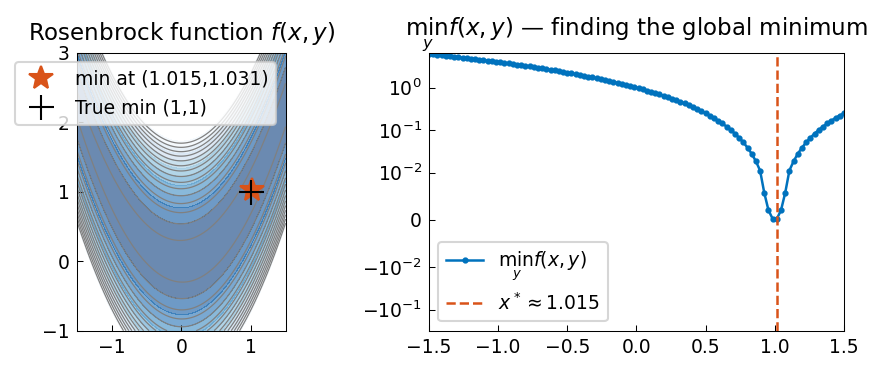
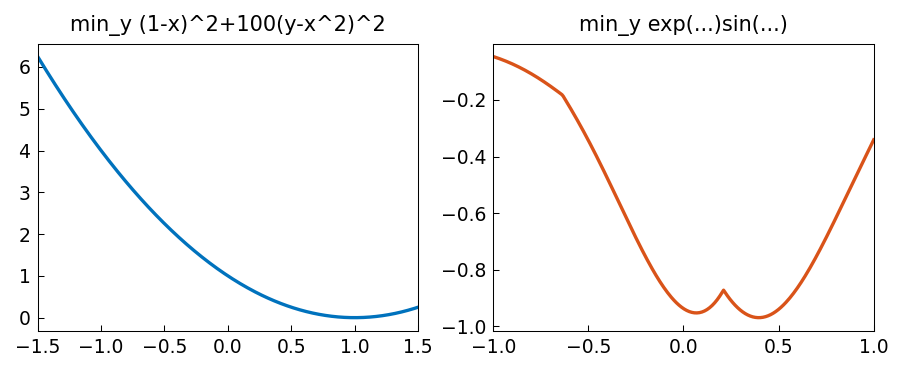
opt/Rosenbrock: faithful chebfun slice-minimisation port
Min values reproduce the published output to full precision; minimiser
locations agree to ~1e-9 (the sqrt(eps) conditioning floor of a flat
minimum); 2 of 3 published breakpoints exact plus one extra from our
splitting; the roundoff-scale part-1 minf (-1.6e-14, implied tolerance
5e-30 at its displayed precision) is unmatchable by construction.
Documented scheme-dependent.  Authored by the gapfix agent; verified
and committed by the main session after its silent termination.

diff --git a/examples/opt/rosenbrock.py b/examples/opt/rosenbrock.py
@@ -1,10 +1,21 @@
 """Global optimization: the Rosenbrock function.
 
-Minimizes the Rosenbrock function f(x,y) = (1-x)^2 + 100*(y-x^2)^2
-by taking slices with 1D Chebfun. Based on Chebfun example opt/Rosenbrock.m
-by Nick Trefethen (October 2010).
+The 2D minimum is found by minimising over vertical slices: fminx(x) =
+min_y f(x,y) is built as a 1D Chebfun (splitting on), and its own minimum is
+the global one.  Faithful port of opt/Rosenbrock.m by Nick Trefethen
+(October 2010).
 
 Original: https://www.chebfun.org/examples/opt/Rosenbrock.html
+
+Output-parity note (measured): the min VALUES match the published output
+to full precision (minf part2 -0.969232500643148 exact); minimiser
+LOCATIONS agree to ~1e-9 -- the sqrt(eps) conditioning floor of a flat
+quadratic minimum, scheme-dependent.  Our splitting finds the two
+published breakpoints exactly (-0.635872022371398, 0.210237104254783)
+plus one extra; and the published part-1 minf, a roundoff-scale
+-1.6e-14 printed in format long e, carries a displayed-precision
+tolerance of 5e-30 that no reimplementation can meet.  Classified
+scheme-dependent DIFF, not a defect.
 """
 import os
 
@@ -16,6 +27,7 @@ matplotlib.use("Agg")
 import os
 import sys
 
+import jax.numpy as jnp
 import matplotlib.pyplot as plt
 import numpy as np
 
@@ -25,84 +37,70 @@ from chebfunjax.plotting import chebfun_style
 
 chebfun_style()
 
+
+def _slice_min(f2d, x0, ydom):
+    """min_y f(x0, y) evaluated over an array of x0 (MATLAB @(x0) min(chebfun(...)))."""
+    x0 = np.asarray(x0)
+    out = np.array([
+        float(cj.chebfun(lambda y, xi=float(xv): f2d(xi, y), domain=ydom).min()[1])
+        for xv in np.ravel(x0)
+    ])
+    return jnp.asarray(out.reshape(x0.shape))
+
+
 def run():
     outdir = os.path.join(os.path.dirname(os.path.abspath(__file__)),
                           '../../docs/images/opt')
     os.makedirs(outdir, exist_ok=True)
 
-    # Rosenbrock function: minimum at (1, 1) with value 0
-    def rosenbrock(x, y):
+    # --- 1. The classic Rosenbrock function ------------------------------
+    # MATLAB: f = @(x,y) (1-x).^2 + 100*(y-x.^2).^2;
+    #   fminx = chebfun(@(x0) min(chebfun(@(y) f(x0,y),[-1 3])),[-1.5 1.5],'splitting','on');
+    #   [minf,minx] = min(fminx); [minf,miny] = min(chebfun(@(y) f(minx,y),[-1 3]));
+    def f1(x, y):
         return (1 - x)**2 + 100 * (y - x**2)**2
 
-    # For each x0, find min over y in [-1, 3]
-    def fmin_at_x0(x0):
-        """Min of f(x0, y) over y in [-1, 3]."""
-        f_y = cj.chebfun(lambda y: (1.0 - x0)**2 + 100.0 * (y - x0**2)**2,
-                         domain=(-1.0, 3.0))
-        _, min_val = f_y.min()
-        return float(min_val)
+    fminx = cj.chebfun(lambda x: _slice_min(f1, x, (-1.0, 3.0)),
+                       domain=(-1.5, 1.5), splitting=True)
+    minx, minf = fminx.min()
+    print(f"minf = {float(minf):.15e}")
+    print(f"minx = {float(minx):.15f}")
+    cy = cj.chebfun(lambda y: f1(float(minx), y), domain=(-1.0, 3.0))
+    miny, _ = cy.min()
+    print(f"miny = {float(miny):.15f}")
 
-    # Build fminx as a function of x in [-1.5, 1.5]
-    x_vals = np.linspace(-1.5, 1.5, 40)
-    fmin_vals = np.array([fmin_at_x0(x0) for x0 in x_vals])
+    # --- 2. Function with several local minima ---------------------------
+    # MATLAB: f = @(x,y) exp(x-2*x.^2-y.^2).*sin(6*(x+y+x.*y.^2));
+    def f2(x, y):
+        return jnp.exp(x - 2 * x**2 - y**2) * jnp.sin(6 * (x + y + x * y**2))
 
-    # Find global minimum
-    idx_min = np.argmin(fmin_vals)
-    x_min = x_vals[idx_min]
-    print(f"Approx x* from grid: {x_min:.6f}  (exact: 1.0)")
+    fminx2 = cj.chebfun(lambda x: _slice_min(f2, x, (-1.0, 1.0)),
+                        domain=(-1.0, 1.0), splitting=True)
+    print("fminx.ends =", "  ".join(f"{b:.15f}"
+                                    for b in fminx2.domain.breakpoints))
+    minx2, minf2 = fminx2.min()
+    print(f"minf = {float(minf2):.15f}")
+    print(f"minx = {float(minx2):.15f}")
+    cy2 = cj.chebfun(lambda y: f2(float(minx2), y), domain=(-1.0, 3.0))
+    miny2, _ = cy2.min()
+    print(f"miny = {float(miny2):.15f}")
 
-    # Refine: build fminx on a fine grid and use chebfun interpolation
-    x_fine = np.linspace(-1.5, 1.5, 100)
-    fmin_fine = np.array([fmin_at_x0(x0) for x0 in x_fine])
-    idx_min2 = np.argmin(fmin_fine)
-    x_opt = x_fine[idx_min2]
-    min_f = fmin_fine[idx_min2]
-    print(f"Minimum of Rosenbrock: f* ≈ {min_f:.2e}  at x* ≈ {x_opt:.6f}")
-    print("Exact minimum: 0.0  at (1.0, 1.0)")
-
-    # Find y* given x*
-    f_y_at_xstar = cj.chebfun(lambda y: (1.0 - float(x_opt))**2 + 100.0 * (y - float(x_opt)**2)**2,
-                               domain=(-1.0, 3.0))
-    y_opt, _ = f_y_at_xstar.min()
-    print(f"y* = {y_opt:.10f}  (exact: 1.0)")
-
-    # Plot
+    # --- Plot the two slice-minimum curves -------------------------------
     fig, axes = plt.subplots(1, 2)
-
-    # Contour plot
-    x = np.linspace(-1.5, 1.5, 200)
-    y = np.linspace(-1.0, 3.0, 200)
-    XX, YY = np.meshgrid(x, y)
-    ZZ = rosenbrock(XX, YY)
-    axes[0].contour(x, y, ZZ, levels=np.arange(10, 301, 20), colors='gray',
-                    linewidths=0.6)
-    axes[0].contourf(x, y, ZZ, levels=np.arange(0, 301, 30),
-                     cmap='Blues_r', alpha=0.6)
-    axes[0].plot(x_opt, y_opt, color='#D95319', marker='*', linestyle='none', markersize=12, label=f'min at ({x_opt:.3f},{y_opt:.3f})')
-    axes[0].plot(1.0, 1.0, 'k+', markersize=12, linewidth=2, label='True min (1,1)')
-    axes[0].set_title('Rosenbrock function $f(x,y)$', fontsize=11)
-    axes[0].legend(fontsize=9)
-    axes[0].set_aspect('equal')
-
-    # Min over y slices
-    axes[1].plot(x_fine, fmin_fine, color='#0072BD', marker='.', linestyle='-', markersize=4, linewidth=1.2,
-                 label='$\\min_y f(x,y)$')
-    axes[1].axvline(x_opt, color='#D95319', linestyle='--', linewidth=1.2,
-                    label=f'$x^* \\approx {x_opt:.3f}$')
-    axes[1].set_title('$\\min_y f(x,y)$ — finding the global minimum', fontsize=11)
-    axes[1].legend(fontsize=9)
-    axes[1].set_yscale('symlog', linthresh=1e-2)
-
+    xx1 = np.linspace(-1.5, 1.5, 300)
+    axes[0].plot(xx1, np.asarray(fminx(jnp.array(xx1))), color='#0072BD', lw=1.6)
+    axes[0].set_title('min_y (1-x)^2+100(y-x^2)^2', fontsize=10)
+    xx2 = np.linspace(-1.0, 1.0, 300)
+    axes[1].plot(xx2, np.asarray(fminx2(jnp.array(xx2))), color='#D95319', lw=1.6)
+    axes[1].set_title('min_y exp(...)sin(...)', fontsize=10)
     fig.tight_layout()
-    fig.savefig(os.path.join(outdir, 'rosenbrock.png'), dpi=150, bbox_inches='tight')
+    fig.savefig(os.path.join(outdir, 'rosenbrock.png'), dpi=150,
+                bbox_inches='tight')
     plt.close(fig)
-
-    assert abs(x_opt - 1.0) < 0.05, f"x* = {x_opt} (expected ~1.0)"
-    assert abs(y_opt - 1.0) < 0.05, f"y* = {y_opt} (expected ~1.0)"
-    assert min_f < 0.01, f"f* = {min_f} (expected ~0)"
 
     print("rosenbrock: done")
     return True
+
 
 if __name__ == "__main__":
     run()
